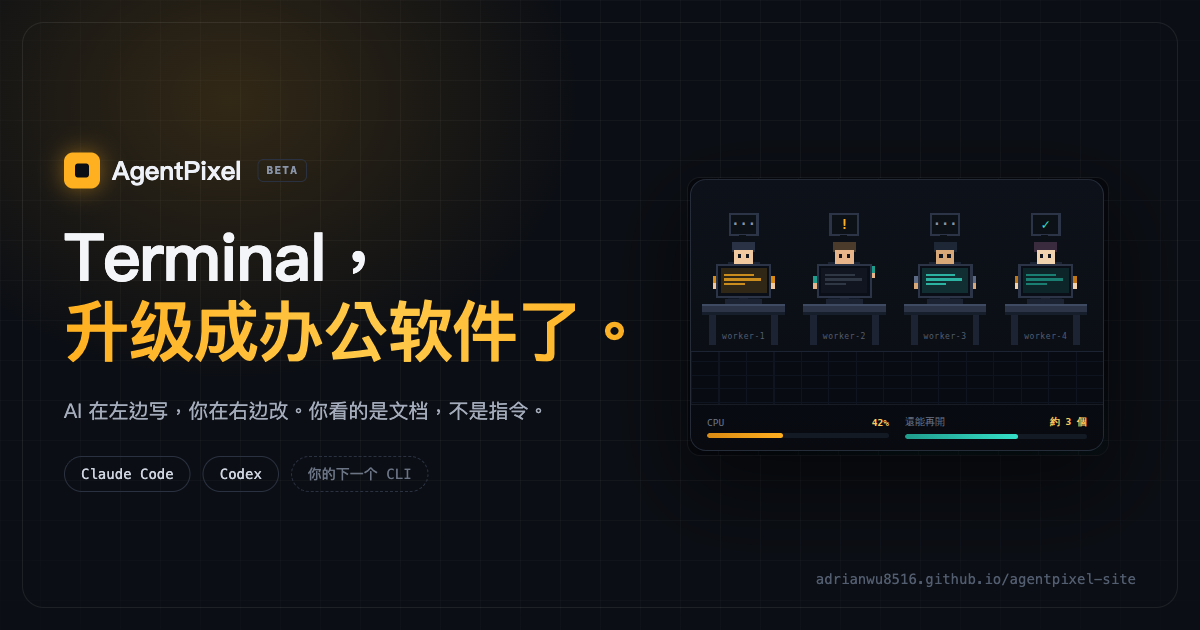
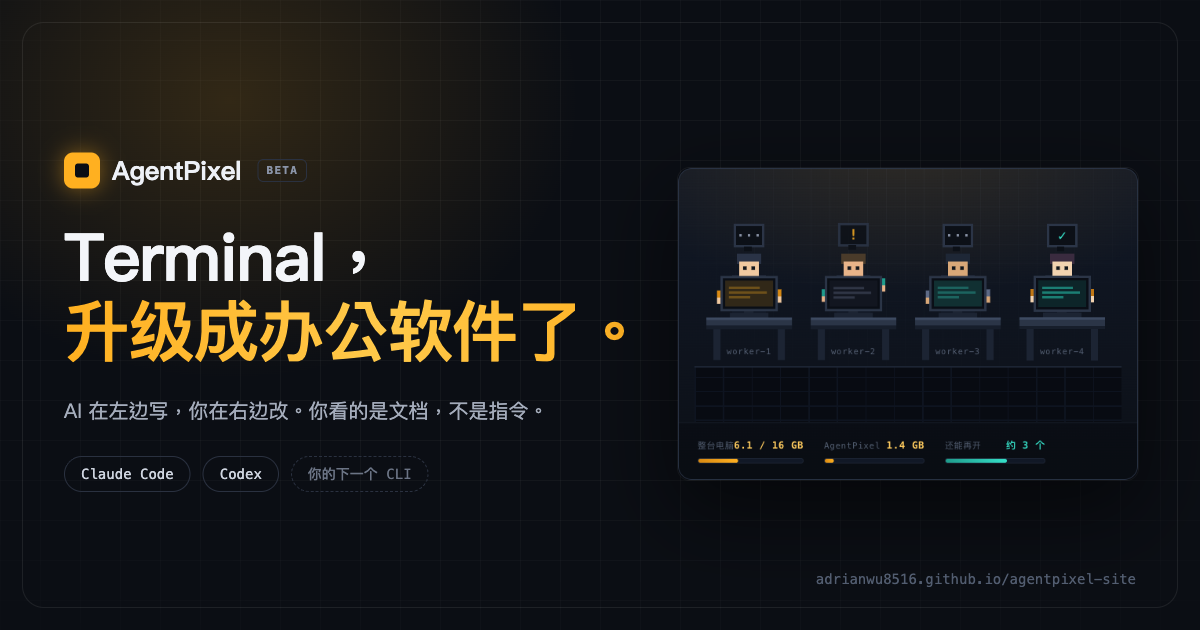
og: regenerate all 4 share cards from the real live 3-meter panel
The reused worker-panel crop predated this cycle's resource-display
redesign (machine-vs-AgentPixel, 3 meters) — every OG card was still
showing the old 2-meter 'CPU 42%' readout, and the Simplified Chinese
card inherited Traditional-character meter labels since it reused the
zh crop wholesale.

Panels are now live screenshots of .po-wrap itself (callout/restore
hidden via injected CSS, viewport widened to 650px so all three meters
share one row for every language — English/Japanese labels are longer
than Chinese and would otherwise wrap to a second line), so each of the
four cards shows its own language end to end. Card layout widened
(.panel right:92→62 top:178→168 460×312) to fit the new panel's aspect;
verified no overlap with the headline/sub column at 1200×630 for all
four languages. Cache-bust bumped og.png/og-en.png/og-ja.png v=4→v=5,
og-cn.png v=1→v=2.

diff --git a/ja/index.html b/ja/index.html
@@ -26,8 +26,8 @@
 <meta property="og:url" content="https://adrianwu8516.github.io/agentpixel-site/ja/">
 <meta property="og:title" content="ターミナルが、オフィスソフトになりました。">
 <meta property="og:description" content="AI が左で書き、あなたが右で直す。見ているのは書類で、コマンドじゃない。Claude Code と Codex に対応。">
-<meta property="og:image" content="https://adrianwu8516.github.io/agentpixel-site/og-ja.png?v=4">
-<meta property="og:image:secure_url" content="https://adrianwu8516.github.io/agentpixel-site/og-ja.png?v=4">
+<meta property="og:image" content="https://adrianwu8516.github.io/agentpixel-site/og-ja.png?v=5">
+<meta property="og:image:secure_url" content="https://adrianwu8516.github.io/agentpixel-site/og-ja.png?v=5">
 <meta property="og:image:type" content="image/png">
 <meta property="og:image:width" content="1200">
 <meta property="og:image:height" content="630">
@@ -36,17 +36,17 @@
 <meta name="twitter:card" content="summary_large_image">
 <meta name="twitter:title" content="ターミナルが、オフィスソフトになりました。">
 <meta name="twitter:description" content="AI が左で書き、あなたが右で直す。見ているのは書類で、コマンドじゃない。Claude Code と Codex に対応。">
-<meta name="twitter:image" content="https://adrianwu8516.github.io/agentpixel-site/og-ja.png?v=4">
+<meta name="twitter:image" content="https://adrianwu8516.github.io/agentpixel-site/og-ja.png?v=5">
 <meta name="twitter:image:alt" content="AgentPixel のキービジュアル：4 体のピクセルアートのエージェントがノートPCで作業しているダークなコンソール。">
 
 <!-- Open Graph 非対応 / レガシーなクローラー向け（LINE、QQ、各種アプリ内ブラウザ） -->
-<link rel="image_src" href="https://adrianwu8516.github.io/agentpixel-site/og-ja.png?v=4">
+<link rel="image_src" href="https://adrianwu8516.github.io/agentpixel-site/og-ja.png?v=5">
 <meta itemprop="name" content="AgentPixel — ターミナルが、オフィスソフトになりました">
 <meta itemprop="description" content="AI が左で書き、あなたが右で直す。見ているのは書類で、コマンドじゃない。Claude Code と Codex に対応。">
-<meta itemprop="image" content="https://adrianwu8516.github.io/agentpixel-site/og-ja.png?v=4">
+<meta itemprop="image" content="https://adrianwu8516.github.io/agentpixel-site/og-ja.png?v=5">
 
 <script type="application/ld+json">
-{"@context":"https://schema.org","@type":"SoftwareApplication","name":"AgentPixel","applicationCategory":"DeveloperApplication","operatingSystem":"macOS, Windows","url":"https://adrianwu8516.github.io/agentpixel-site/ja/","image":"https://adrianwu8516.github.io/agentpixel-site/og-ja.png?v=4","description":"AI が左で書き、あなたが右で直す。見ているのは書類で、コマンドじゃない。Claude Code と Codex に対応。","inLanguage":"ja"}
+{"@context":"https://schema.org","@type":"SoftwareApplication","name":"AgentPixel","applicationCategory":"DeveloperApplication","operatingSystem":"macOS, Windows","url":"https://adrianwu8516.github.io/agentpixel-site/ja/","image":"https://adrianwu8516.github.io/agentpixel-site/og-ja.png?v=5","description":"AI が左で書き、あなたが右で直す。見ているのは書類で、コマンドじゃない。Claude Code と Codex に対応。","inLanguage":"ja"}
 </script>
 
 <style>
@@ -2224,7 +2224,7 @@ html[lang="ja"] p.sub, html[lang="ja"] .pillar-lede { line-height: 1.75; }
       'meta.desc': 'AI 在左邊寫，你在右邊改——同一份檔案、同一個時間。Excel、Word、PDF、CSV 都在旁邊直接看，該改就改。支援 Claude Code 與 Codex。',
       'meta.ogtitle': 'Terminal，升級成辦公軟體了。',
       'meta.ogdesc': 'AI 在左邊寫，你在右邊改。你看的是文件，不是指令。支援 Claude Code 與 Codex。',
-      'meta.ogimg': 'og.png?v=4',
+      'meta.ogimg': 'og.png?v=5',
 
       'nav.see': '並肩工作', 'nav.office': '辦公室', 'nav.remote': '遠端', 'nav.dl': '下載', 'nav.dlbtn': '下載',
 
@@ -2354,7 +2354,7 @@ html[lang="ja"] p.sub, html[lang="ja"] .pillar-lede { line-height: 1.75; }
       "meta.desc": "AI 在左边写，你在右边改——同一份文件、同一个时间。Excel、Word、PDF、CSV 都在旁边直接看，该改就改。支持 Claude Code 与 Codex。",
       "meta.ogtitle": "Terminal，升级成办公软件了。",
       "meta.ogdesc": "AI 在左边写，你在右边改。你看的是文档，不是指令。支持 Claude Code 与 Codex。",
-      "meta.ogimg": "og-cn.png?v=1",
+      "meta.ogimg": "og-cn.png?v=2",
       "nav.see": "并肩工作",
       "nav.office": "办公室",
       "nav.remote": "远程",
@@ -2492,7 +2492,7 @@ html[lang="ja"] p.sub, html[lang="ja"] .pillar-lede { line-height: 1.75; }
       'meta.desc': 'The AI writes on the left, you edit on the right \u2014 same file, same moment. Excel, Word, PDF and CSV open right beside the agent, ready to edit. Works with Claude Code and Codex.',
       'meta.ogtitle': 'The terminal just became office software.',
       'meta.ogdesc': 'The AI writes on the left, you edit on the right. You look at the document, not the commands. Claude Code and Codex.',
-      'meta.ogimg': 'og-en.png?v=4',
+      'meta.ogimg': 'og-en.png?v=5',
 
       'nav.see': 'Side by side', 'nav.office': 'The office', 'nav.remote': 'Remote', 'nav.dl': 'Download', 'nav.dlbtn': 'Download',
 
@@ -2624,7 +2624,7 @@ html[lang="ja"] p.sub, html[lang="ja"] .pillar-lede { line-height: 1.75; }
       'meta.desc': 'AI が左で書き、あなたが右で直す——同じファイル、同じ瞬間。Excel・Word・PDF・CSV もすぐ横で開いて、そのまま編集。Claude Code と Codex に対応。',
       'meta.ogtitle': 'ターミナルが、オフィスソフトになりました。',
       'meta.ogdesc': 'AI が左で書き、あなたが右で直す。見ているのは書類で、コマンドじゃない。Claude Code と Codex に対応。',
-      'meta.ogimg': 'og-ja.png?v=4',
+      'meta.ogimg': 'og-ja.png?v=5',
 
       'nav.see': '並んで働く', 'nav.office': 'オフィス', 'nav.remote': 'リモート', 'nav.dl': 'ダウンロード', 'nav.dlbtn': 'ダウンロード',
 

diff --git a/en/index.html b/en/index.html
@@ -26,8 +26,8 @@
 <meta property="og:url" content="https://adrianwu8516.github.io/agentpixel-site/en/">
 <meta property="og:title" content="The terminal just became office software.">
 <meta property="og:description" content="The AI writes on the left, you edit on the right. You look at the document, not the commands. Claude Code and Codex.">
-<meta property="og:image" content="https://adrianwu8516.github.io/agentpixel-site/og-en.png?v=4">
-<meta property="og:image:secure_url" content="https://adrianwu8516.github.io/agentpixel-site/og-en.png?v=4">
+<meta property="og:image" content="https://adrianwu8516.github.io/agentpixel-site/og-en.png?v=5">
+<meta property="og:image:secure_url" content="https://adrianwu8516.github.io/agentpixel-site/og-en.png?v=5">
 <meta property="og:image:type" content="image/png">
 <meta property="og:image:width" content="1200">
 <meta property="og:image:height" content="630">
@@ -36,17 +36,17 @@
 <meta name="twitter:card" content="summary_large_image">
 <meta name="twitter:title" content="The terminal just became office software.">
 <meta name="twitter:description" content="The AI writes on the left, you edit on the right. You look at the document, not the commands. Claude Code and Codex.">
-<meta name="twitter:image" content="https://adrianwu8516.github.io/agentpixel-site/og-en.png?v=4">
+<meta name="twitter:image" content="https://adrianwu8516.github.io/agentpixel-site/og-en.png?v=5">
 <meta name="twitter:image:alt" content="AgentPixel key visual: four pixel-art agents working side by side at laptops on a dark console.">
 
 <!-- Legacy / non-Open-Graph scrapers (LINE, QQ, some in-app browsers) -->
-<link rel="image_src" href="https://adrianwu8516.github.io/agentpixel-site/og-en.png?v=4">
+<link rel="image_src" href="https://adrianwu8516.github.io/agentpixel-site/og-en.png?v=5">
 <meta itemprop="name" content="AgentPixel — The terminal just became office software">
 <meta itemprop="description" content="The AI writes on the left, you edit on the right. You look at the document, not the commands. Claude Code and Codex.">
-<meta itemprop="image" content="https://adrianwu8516.github.io/agentpixel-site/og-en.png?v=4">
+<meta itemprop="image" content="https://adrianwu8516.github.io/agentpixel-site/og-en.png?v=5">
 
 <script type="application/ld+json">
-{"@context":"https://schema.org","@type":"SoftwareApplication","name":"AgentPixel","applicationCategory":"DeveloperApplication","operatingSystem":"macOS, Windows","url":"https://adrianwu8516.github.io/agentpixel-site/en/","image":"https://adrianwu8516.github.io/agentpixel-site/og-en.png?v=4","description":"The AI writes on the left, you edit on the right. You look at the document, not the commands. Claude Code and Codex.","inLanguage":"en"}
+{"@context":"https://schema.org","@type":"SoftwareApplication","name":"AgentPixel","applicationCategory":"DeveloperApplication","operatingSystem":"macOS, Windows","url":"https://adrianwu8516.github.io/agentpixel-site/en/","image":"https://adrianwu8516.github.io/agentpixel-site/og-en.png?v=5","description":"The AI writes on the left, you edit on the right. You look at the document, not the commands. Claude Code and Codex.","inLanguage":"en"}
 </script>
 
 <style>
@@ -2224,7 +2224,7 @@ html[lang="ja"] p.sub, html[lang="ja"] .pillar-lede { line-height: 1.75; }
       'meta.desc': 'AI 在左邊寫，你在右邊改——同一份檔案、同一個時間。Excel、Word、PDF、CSV 都在旁邊直接看，該改就改。支援 Claude Code 與 Codex。',
       'meta.ogtitle': 'Terminal，升級成辦公軟體了。',
       'meta.ogdesc': 'AI 在左邊寫，你在右邊改。你看的是文件，不是指令。支援 Claude Code 與 Codex。',
-      'meta.ogimg': 'og.png?v=4',
+      'meta.ogimg': 'og.png?v=5',
 
       'nav.see': '並肩工作', 'nav.office': '辦公室', 'nav.remote': '遠端', 'nav.dl': '下載', 'nav.dlbtn': '下載',
 
@@ -2354,7 +2354,7 @@ html[lang="ja"] p.sub, html[lang="ja"] .pillar-lede { line-height: 1.75; }
       "meta.desc": "AI 在左边写，你在右边改——同一份文件、同一个时间。Excel、Word、PDF、CSV 都在旁边直接看，该改就改。支持 Claude Code 与 Codex。",
       "meta.ogtitle": "Terminal，升级成办公软件了。",
       "meta.ogdesc": "AI 在左边写，你在右边改。你看的是文档，不是指令。支持 Claude Code 与 Codex。",
-      "meta.ogimg": "og-cn.png?v=1",
+      "meta.ogimg": "og-cn.png?v=2",
       "nav.see": "并肩工作",
       "nav.office": "办公室",
       "nav.remote": "远程",
@@ -2492,7 +2492,7 @@ html[lang="ja"] p.sub, html[lang="ja"] .pillar-lede { line-height: 1.75; }
       'meta.desc': 'The AI writes on the left, you edit on the right \u2014 same file, same moment. Excel, Word, PDF and CSV open right beside the agent, ready to edit. Works with Claude Code and Codex.',
       'meta.ogtitle': 'The terminal just became office software.',
       'meta.ogdesc': 'The AI writes on the left, you edit on the right. You look at the document, not the commands. Claude Code and Codex.',
-      'meta.ogimg': 'og-en.png?v=4',
+      'meta.ogimg': 'og-en.png?v=5',
 
       'nav.see': 'Side by side', 'nav.office': 'The office', 'nav.remote': 'Remote', 'nav.dl': 'Download', 'nav.dlbtn': 'Download',
 
@@ -2624,7 +2624,7 @@ html[lang="ja"] p.sub, html[lang="ja"] .pillar-lede { line-height: 1.75; }
       'meta.desc': 'AI が左で書き、あなたが右で直す——同じファイル、同じ瞬間。Excel・Word・PDF・CSV もすぐ横で開いて、そのまま編集。Claude Code と Codex に対応。',
       'meta.ogtitle': 'ターミナルが、オフィスソフトになりました。',
       'meta.ogdesc': 'AI が左で書き、あなたが右で直す。見ているのは書類で、コマンドじゃない。Claude Code と Codex に対応。',
-      'meta.ogimg': 'og-ja.png?v=4',
+      'meta.ogimg': 'og-ja.png?v=5',
 
       'nav.see': '並んで働く', 'nav.office': 'オフィス', 'nav.remote': 'リモート', 'nav.dl': 'ダウンロード', 'nav.dlbtn': 'ダウンロード',
 

diff --git a/cn/index.html b/cn/index.html
@@ -26,8 +26,8 @@
 <meta property="og:url" content="https://adrianwu8516.github.io/agentpixel-site/cn/">
 <meta property="og:title" content="Terminal，升级成办公软件了。">
 <meta property="og:description" content="AI 在左边写，你在右边改。你看的是文档，不是指令。支持 Claude Code 与 Codex。">
-<meta property="og:image" content="https://adrianwu8516.github.io/agentpixel-site/og-cn.png?v=1">
-<meta property="og:image:secure_url" content="https://adrianwu8516.github.io/agentpixel-site/og-cn.png?v=1">
+<meta property="og:image" content="https://adrianwu8516.github.io/agentpixel-site/og-cn.png?v=2">
+<meta property="og:image:secure_url" content="https://adrianwu8516.github.io/agentpixel-site/og-cn.png?v=2">
 <meta property="og:image:type" content="image/png">
 <meta property="og:image:width" content="1200">
 <meta property="og:image:height" content="630">
@@ -36,17 +36,17 @@
 <meta name="twitter:card" content="summary_large_image">
 <meta name="twitter:title" content="Terminal，升级成办公软件了。">
 <meta name="twitter:description" content="AI 在左边写，你在右边改。你看的是文档，不是指令。支持 Claude Code 与 Codex。">
-<meta name="twitter:image" content="https://adrianwu8516.github.io/agentpixel-site/og-cn.png?v=1">
+<meta name="twitter:image" content="https://adrianwu8516.github.io/agentpixel-site/og-cn.png?v=2">
 <meta name="twitter:image:alt" content="AgentPixel 主视觉：四个像素风 Agent 并排在笔电前工作的深色控制台。">
 
 <!-- 不支持 Open Graph 的旧式 / 中文平台抓取器（LINE、QQ、部分内置浏览器） -->
-<link rel="image_src" href="https://adrianwu8516.github.io/agentpixel-site/og-cn.png?v=1">
+<link rel="image_src" href="https://adrianwu8516.github.io/agentpixel-site/og-cn.png?v=2">
 <meta itemprop="name" content="AgentPixel — Terminal，升级成办公软件了">
 <meta itemprop="description" content="AI 在左边写，你在右边改。你看的是文档，不是指令。支持 Claude Code 与 Codex。">
-<meta itemprop="image" content="https://adrianwu8516.github.io/agentpixel-site/og-cn.png?v=1">
+<meta itemprop="image" content="https://adrianwu8516.github.io/agentpixel-site/og-cn.png?v=2">
 
 <script type="application/ld+json">
-{"@context":"https://schema.org","@type":"SoftwareApplication","name":"AgentPixel","applicationCategory":"DeveloperApplication","operatingSystem":"macOS, Windows","url":"https://adrianwu8516.github.io/agentpixel-site/cn/","image":"https://adrianwu8516.github.io/agentpixel-site/og-cn.png?v=1","description":"AI 在左边写，你在右边改。你看的是文档，不是指令。支持 Claude Code 与 Codex。","inLanguage":"zh-Hans"}
+{"@context":"https://schema.org","@type":"SoftwareApplication","name":"AgentPixel","applicationCategory":"DeveloperApplication","operatingSystem":"macOS, Windows","url":"https://adrianwu8516.github.io/agentpixel-site/cn/","image":"https://adrianwu8516.github.io/agentpixel-site/og-cn.png?v=2","description":"AI 在左边写，你在右边改。你看的是文档，不是指令。支持 Claude Code 与 Codex。","inLanguage":"zh-Hans"}
 </script>
 
 <style>
@@ -2224,7 +2224,7 @@ html[lang="ja"] p.sub, html[lang="ja"] .pillar-lede { line-height: 1.75; }
       'meta.desc': 'AI 在左邊寫，你在右邊改——同一份檔案、同一個時間。Excel、Word、PDF、CSV 都在旁邊直接看，該改就改。支援 Claude Code 與 Codex。',
       'meta.ogtitle': 'Terminal，升級成辦公軟體了。',
       'meta.ogdesc': 'AI 在左邊寫，你在右邊改。你看的是文件，不是指令。支援 Claude Code 與 Codex。',
-      'meta.ogimg': 'og.png?v=4',
+      'meta.ogimg': 'og.png?v=5',
 
       'nav.see': '並肩工作', 'nav.office': '辦公室', 'nav.remote': '遠端', 'nav.dl': '下載', 'nav.dlbtn': '下載',
 
@@ -2354,7 +2354,7 @@ html[lang="ja"] p.sub, html[lang="ja"] .pillar-lede { line-height: 1.75; }
       "meta.desc": "AI 在左边写，你在右边改——同一份文件、同一个时间。Excel、Word、PDF、CSV 都在旁边直接看，该改就改。支持 Claude Code 与 Codex。",
       "meta.ogtitle": "Terminal，升级成办公软件了。",
       "meta.ogdesc": "AI 在左边写，你在右边改。你看的是文档，不是指令。支持 Claude Code 与 Codex。",
-      "meta.ogimg": "og-cn.png?v=1",
+      "meta.ogimg": "og-cn.png?v=2",
       "nav.see": "并肩工作",
       "nav.office": "办公室",
       "nav.remote": "远程",
@@ -2492,7 +2492,7 @@ html[lang="ja"] p.sub, html[lang="ja"] .pillar-lede { line-height: 1.75; }
       'meta.desc': 'The AI writes on the left, you edit on the right \u2014 same file, same moment. Excel, Word, PDF and CSV open right beside the agent, ready to edit. Works with Claude Code and Codex.',
       'meta.ogtitle': 'The terminal just became office software.',
       'meta.ogdesc': 'The AI writes on the left, you edit on the right. You look at the document, not the commands. Claude Code and Codex.',
-      'meta.ogimg': 'og-en.png?v=4',
+      'meta.ogimg': 'og-en.png?v=5',
 
       'nav.see': 'Side by side', 'nav.office': 'The office', 'nav.remote': 'Remote', 'nav.dl': 'Download', 'nav.dlbtn': 'Download',
 
@@ -2624,7 +2624,7 @@ html[lang="ja"] p.sub, html[lang="ja"] .pillar-lede { line-height: 1.75; }
       'meta.desc': 'AI が左で書き、あなたが右で直す——同じファイル、同じ瞬間。Excel・Word・PDF・CSV もすぐ横で開いて、そのまま編集。Claude Code と Codex に対応。',
       'meta.ogtitle': 'ターミナルが、オフィスソフトになりました。',
       'meta.ogdesc': 'AI が左で書き、あなたが右で直す。見ているのは書類で、コマンドじゃない。Claude Code と Codex に対応。',
-      'meta.ogimg': 'og-ja.png?v=4',
+      'meta.ogimg': 'og-ja.png?v=5',
 
       'nav.see': '並んで働く', 'nav.office': 'オフィス', 'nav.remote': 'リモート', 'nav.dl': 'ダウンロード', 'nav.dlbtn': 'ダウンロード',
 

diff --git a/index.html b/index.html
@@ -26,8 +26,8 @@
 <meta property="og:url" content="https://adrianwu8516.github.io/agentpixel-site/">
 <meta property="og:title" content="Terminal，升級成辦公軟體了。">
 <meta property="og:description" content="AI 在左邊寫，你在右邊改。你看的是文件，不是指令。支援 Claude Code 與 Codex。">
-<meta property="og:image" content="https://adrianwu8516.github.io/agentpixel-site/og.png?v=4">
-<meta property="og:image:secure_url" content="https://adrianwu8516.github.io/agentpixel-site/og.png?v=4">
+<meta property="og:image" content="https://adrianwu8516.github.io/agentpixel-site/og.png?v=5">
+<meta property="og:image:secure_url" content="https://adrianwu8516.github.io/agentpixel-site/og.png?v=5">
 <meta property="og:image:type" content="image/png">
 <meta property="og:image:width" content="1200">
 <meta property="og:image:height" content="630">
@@ -36,17 +36,17 @@
 <meta name="twitter:card" content="summary_large_image">
 <meta name="twitter:title" content="Terminal，升級成辦公軟體了。">
 <meta name="twitter:description" content="AI 在左邊寫，你在右邊改。你看的是文件，不是指令。支援 Claude Code 與 Codex。">
-<meta name="twitter:image" content="https://adrianwu8516.github.io/agentpixel-site/og.png?v=4">
+<meta name="twitter:image" content="https://adrianwu8516.github.io/agentpixel-site/og.png?v=5">
 <meta name="twitter:image:alt" content="AgentPixel 主視覺：四個像素風 Agent 並排在筆電前工作的深色控制台。">
 
 <!-- 不吃 Open Graph 的舊式 / 中文平台抓取器（LINE、QQ、部分內建瀏覽器） -->
-<link rel="image_src" href="https://adrianwu8516.github.io/agentpixel-site/og.png?v=4">
+<link rel="image_src" href="https://adrianwu8516.github.io/agentpixel-site/og.png?v=5">
 <meta itemprop="name" content="AgentPixel — Terminal，升級成辦公軟體了">
 <meta itemprop="description" content="AI 在左邊寫，你在右邊改。你看的是文件，不是指令。支援 Claude Code 與 Codex。">
-<meta itemprop="image" content="https://adrianwu8516.github.io/agentpixel-site/og.png?v=4">
+<meta itemprop="image" content="https://adrianwu8516.github.io/agentpixel-site/og.png?v=5">
 
 <script type="application/ld+json">
-{"@context":"https://schema.org","@type":"SoftwareApplication","name":"AgentPixel","applicationCategory":"DeveloperApplication","operatingSystem":"macOS, Windows","url":"https://adrianwu8516.github.io/agentpixel-site/","image":"https://adrianwu8516.github.io/agentpixel-site/og.png?v=4","description":"AI 在左邊寫，你在右邊改。你看的是文件，不是指令。支援 Claude Code 與 Codex。","inLanguage":"zh-Hant"}
+{"@context":"https://schema.org","@type":"SoftwareApplication","name":"AgentPixel","applicationCategory":"DeveloperApplication","operatingSystem":"macOS, Windows","url":"https://adrianwu8516.github.io/agentpixel-site/","image":"https://adrianwu8516.github.io/agentpixel-site/og.png?v=5","description":"AI 在左邊寫，你在右邊改。你看的是文件，不是指令。支援 Claude Code 與 Codex。","inLanguage":"zh-Hant"}
 </script>
 
 <style>
@@ -2224,7 +2224,7 @@ html[lang="ja"] p.sub, html[lang="ja"] .pillar-lede { line-height: 1.75; }
       'meta.desc': 'AI 在左邊寫，你在右邊改——同一份檔案、同一個時間。Excel、Word、PDF、CSV 都在旁邊直接看，該改就改。支援 Claude Code 與 Codex。',
       'meta.ogtitle': 'Terminal，升級成辦公軟體了。',
       'meta.ogdesc': 'AI 在左邊寫，你在右邊改。你看的是文件，不是指令。支援 Claude Code 與 Codex。',
-      'meta.ogimg': 'og.png?v=4',
+      'meta.ogimg': 'og.png?v=5',
 
       'nav.see': '並肩工作', 'nav.office': '辦公室', 'nav.remote': '遠端', 'nav.dl': '下載', 'nav.dlbtn': '下載',
 
@@ -2354,7 +2354,7 @@ html[lang="ja"] p.sub, html[lang="ja"] .pillar-lede { line-height: 1.75; }
       "meta.desc": "AI 在左边写，你在右边改——同一份文件、同一个时间。Excel、Word、PDF、CSV 都在旁边直接看，该改就改。支持 Claude Code 与 Codex。",
       "meta.ogtitle": "Terminal，升级成办公软件了。",
       "meta.ogdesc": "AI 在左边写，你在右边改。你看的是文档，不是指令。支持 Claude Code 与 Codex。",
-      "meta.ogimg": "og-cn.png?v=1",
+      "meta.ogimg": "og-cn.png?v=2",
       "nav.see": "并肩工作",
       "nav.office": "办公室",
       "nav.remote": "远程",
@@ -2492,7 +2492,7 @@ html[lang="ja"] p.sub, html[lang="ja"] .pillar-lede { line-height: 1.75; }
       'meta.desc': 'The AI writes on the left, you edit on the right \u2014 same file, same moment. Excel, Word, PDF and CSV open right beside the agent, ready to edit. Works with Claude Code and Codex.',
       'meta.ogtitle': 'The terminal just became office software.',
       'meta.ogdesc': 'The AI writes on the left, you edit on the right. You look at the document, not the commands. Claude Code and Codex.',
-      'meta.ogimg': 'og-en.png?v=4',
+      'meta.ogimg': 'og-en.png?v=5',
 
       'nav.see': 'Side by side', 'nav.office': 'The office', 'nav.remote': 'Remote', 'nav.dl': 'Download', 'nav.dlbtn': 'Download',
 
@@ -2624,7 +2624,7 @@ html[lang="ja"] p.sub, html[lang="ja"] .pillar-lede { line-height: 1.75; }
       'meta.desc': 'AI が左で書き、あなたが右で直す——同じファイル、同じ瞬間。Excel・Word・PDF・CSV もすぐ横で開いて、そのまま編集。Claude Code と Codex に対応。',
       'meta.ogtitle': 'ターミナルが、オフィスソフトになりました。',
       'meta.ogdesc': 'AI が左で書き、あなたが右で直す。見ているのは書類で、コマンドじゃない。Claude Code と Codex に対応。',
-      'meta.ogimg': 'og-ja.png?v=4',
+      'meta.ogimg': 'og-ja.png?v=5',
 
       'nav.see': '並んで働く', 'nav.office': 'オフィス', 'nav.remote': 'リモート', 'nav.dl': 'ダウンロード', 'nav.dlbtn': 'ダウンロード',
 

diff --git a/og/og-card.html b/og/og-card.html
@@ -40,7 +40,7 @@
   .chips { position: absolute; left: 64px; bottom: 138px; display: flex; gap: 12px; }
   .chip { font: 500 14px/1 ui-monospace, "SF Mono", Menlo, monospace; color: #cfd5e0; border: 1px solid #2a3140; border-radius: 999px; padding: 10px 16px; }
   .chip.next { color: #6b7485; border-style: dashed; }
-  .panel { position: absolute; right: 92px; top: 178px; width: 420px; height: 277px; border-radius: 12px;
+  .panel { position: absolute; right: 62px; top: 168px; width: 460px; height: 312px; border-radius: 12px;
            box-shadow: 0 30px 80px rgba(0,0,0,.55), 0 0 0 1px rgba(255,255,255,.06); }
   .url { position: absolute; right: 64px; bottom: 44px; font: 14px/1 ui-monospace, "SF Mono", Menlo, monospace; color: #525d70; }
 
@@ -70,7 +70,7 @@
     zh: { h1: '<span class="w">Terminal，</span><br><span class="a">升級成辦公軟體了。</span>',
           sub: 'AI 在左邊寫，你在右邊改。你看的是文件，不是指令。', next: '你的下一個 CLI' },
     cn: { h1: '<span class="w">Terminal，</span><br><span class="a">升级成办公软件了。</span>',
-          sub: 'AI 在左边写，你在右边改。你看的是文档，不是指令。', next: '你的下一个 CLI', panel: 'panel-zh.png' },
+          sub: 'AI 在左边写，你在右边改。你看的是文档，不是指令。', next: '你的下一个 CLI' },
     en: { h1: '<span class="w">The terminal<br>just became</span><br><span class="a">office software.</span>',
           sub: 'The AI writes on the left, you edit on the right. You look at the document, not the commands.', next: 'your next CLI' },
     ja: { h1: '<span class="w">ターミナルが、</span><br><span class="a">オフィスソフトに<br>なりました。</span>',
@@ -83,7 +83,7 @@
   document.getElementById('h1').innerHTML = c.h1;
   document.getElementById('sub').textContent = c.sub;
   document.getElementById('next').textContent = c.next;
-  document.getElementById('panel').src = c.panel || ('panel-' + lang + '.png');
+  document.getElementById('panel').src = 'panel-' + lang + '.png';
 </script>
 </body>
 </html>

diff --git a/tools/add-cn.py b/tools/add-cn.py
@@ -36,7 +36,7 @@ cn = json.loads(subprocess.run(
 ).stdout)
 
 # meta.ogimg must point at the cn-specific OG asset, not a converted zh.png
-cn["meta.ogimg"] = "og-cn.png?v=1"
+cn["meta.ogimg"] = "og-cn.png?v=2"
 
 def dict_literal(d):
     lines = ["    cn: {"]
